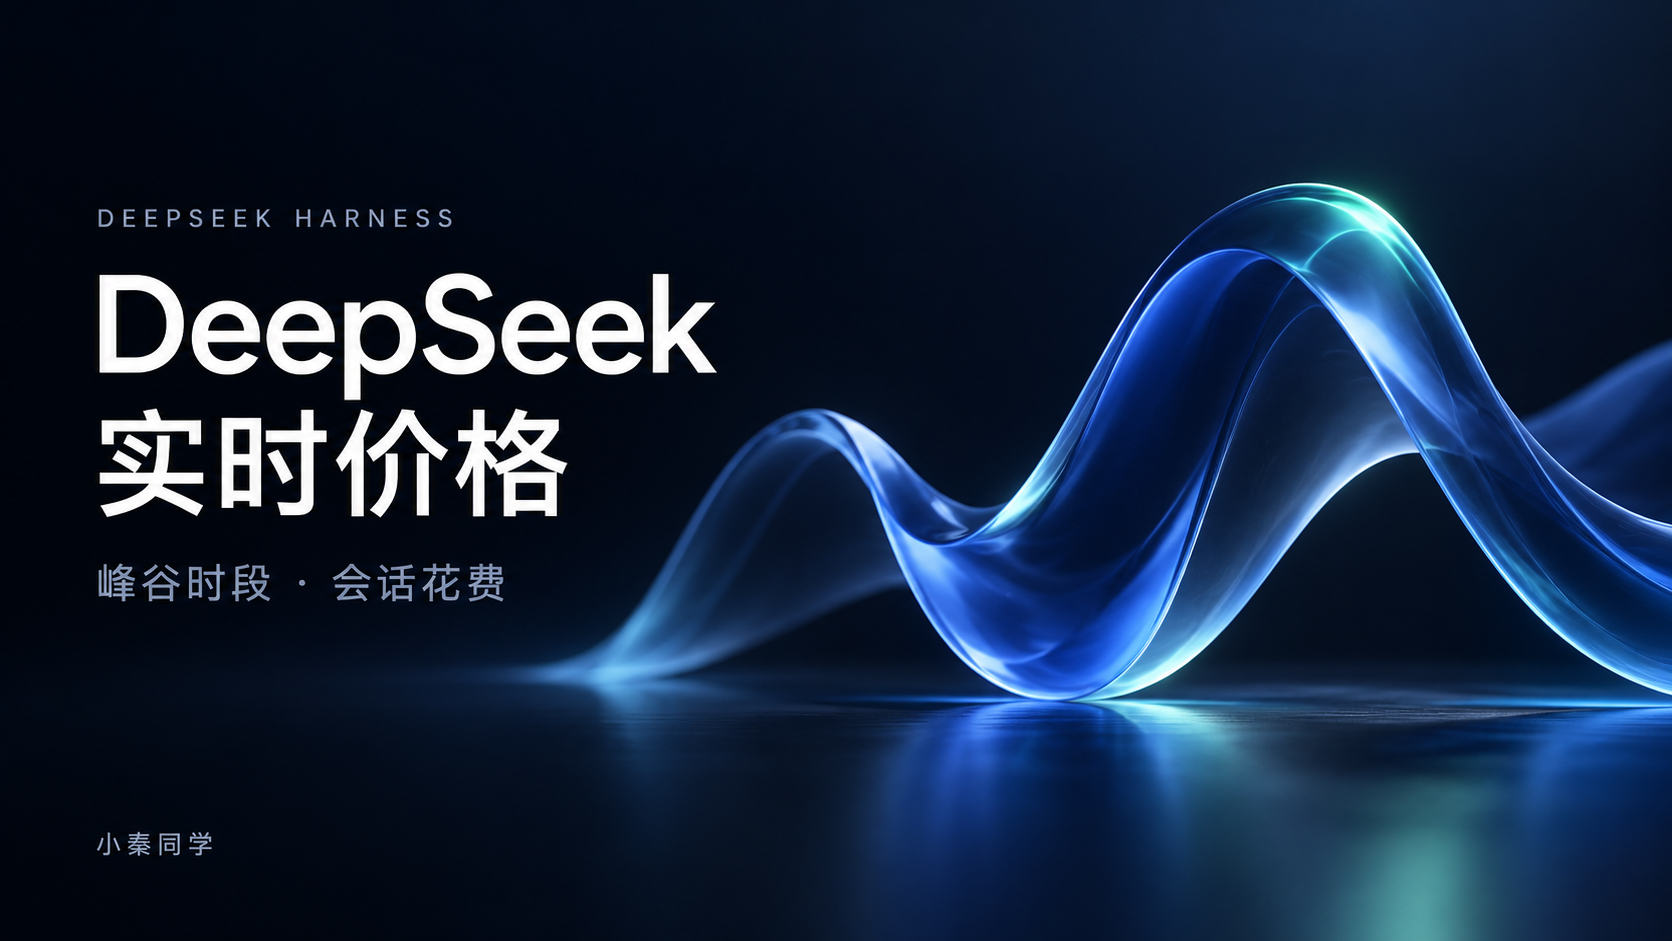
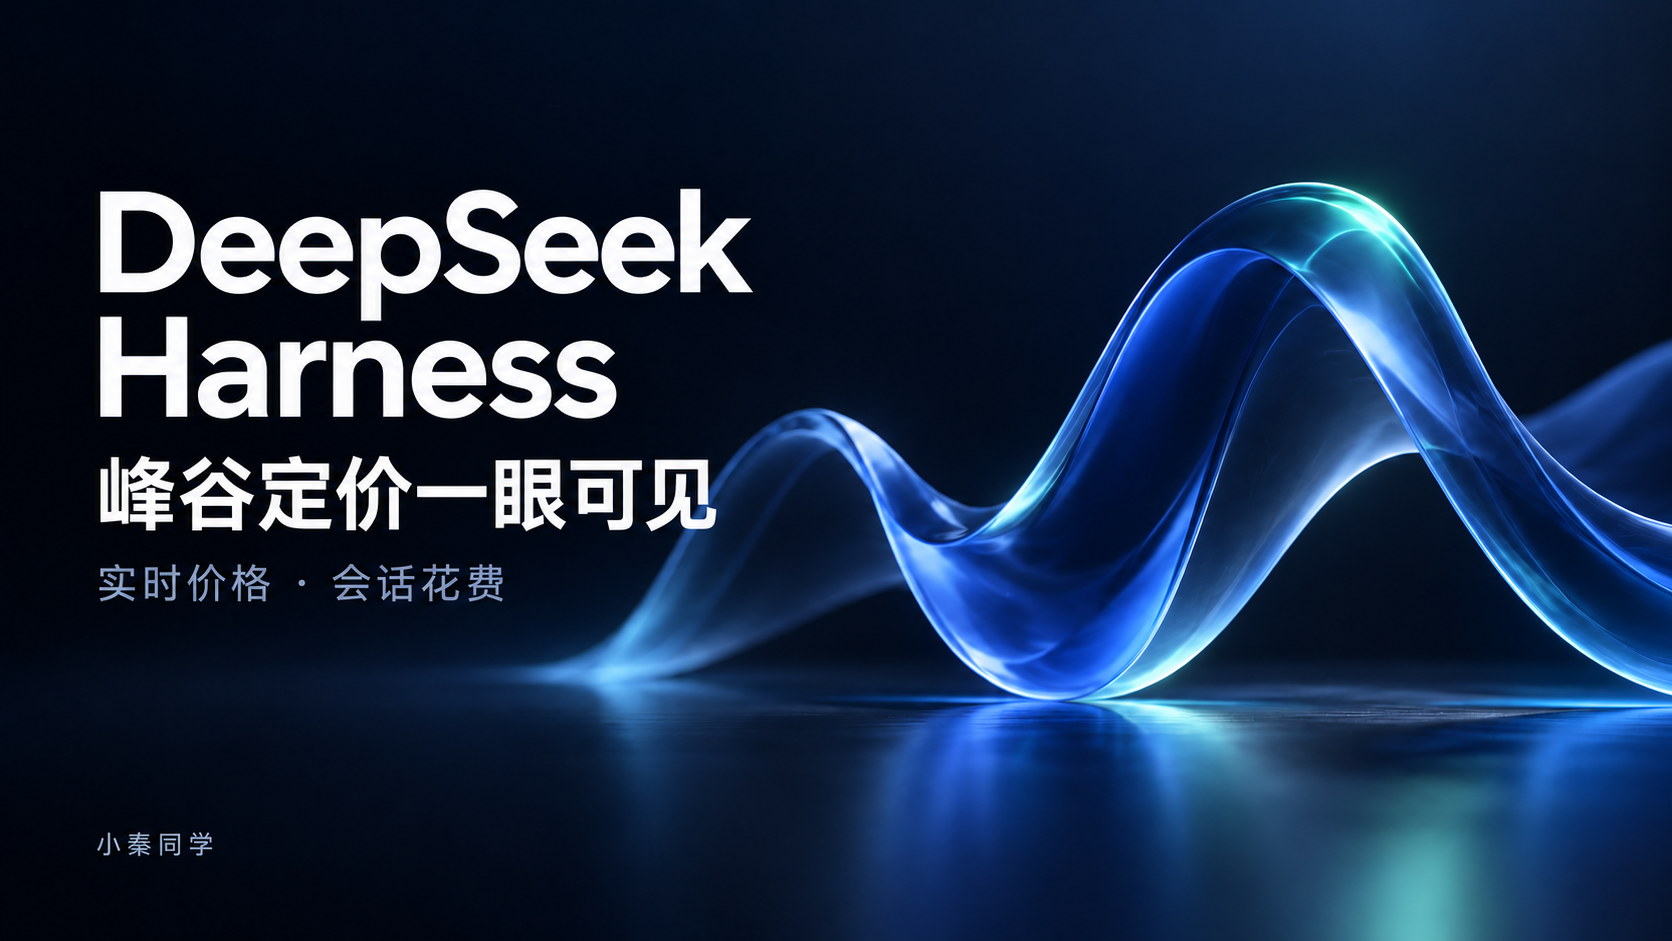
docs: emphasize Harness peak and off-peak pricing in hero

diff --git a/README.md b/README.md
@@ -1,6 +1,6 @@
 # dsh-live-pricing
 
-![DeepSeek 实时价格 · 小秦同学](assets/deepseek-pricing-hero.png)
+![DeepSeek Harness · 峰谷定价一眼可见 · 小秦同学](assets/deepseek-pricing-hero.png)
 
 [![npm](https://img.shields.io/npm/v/dsh-live-pricing.svg?style=flat-square)](https://www.npmjs.com/package/dsh-live-pricing)
 [![CI](https://github.com/xqtx9527/dsh-live-pricing/actions/workflows/ci.yml/badge.svg)](https://github.com/xqtx9527/dsh-live-pricing/actions)
